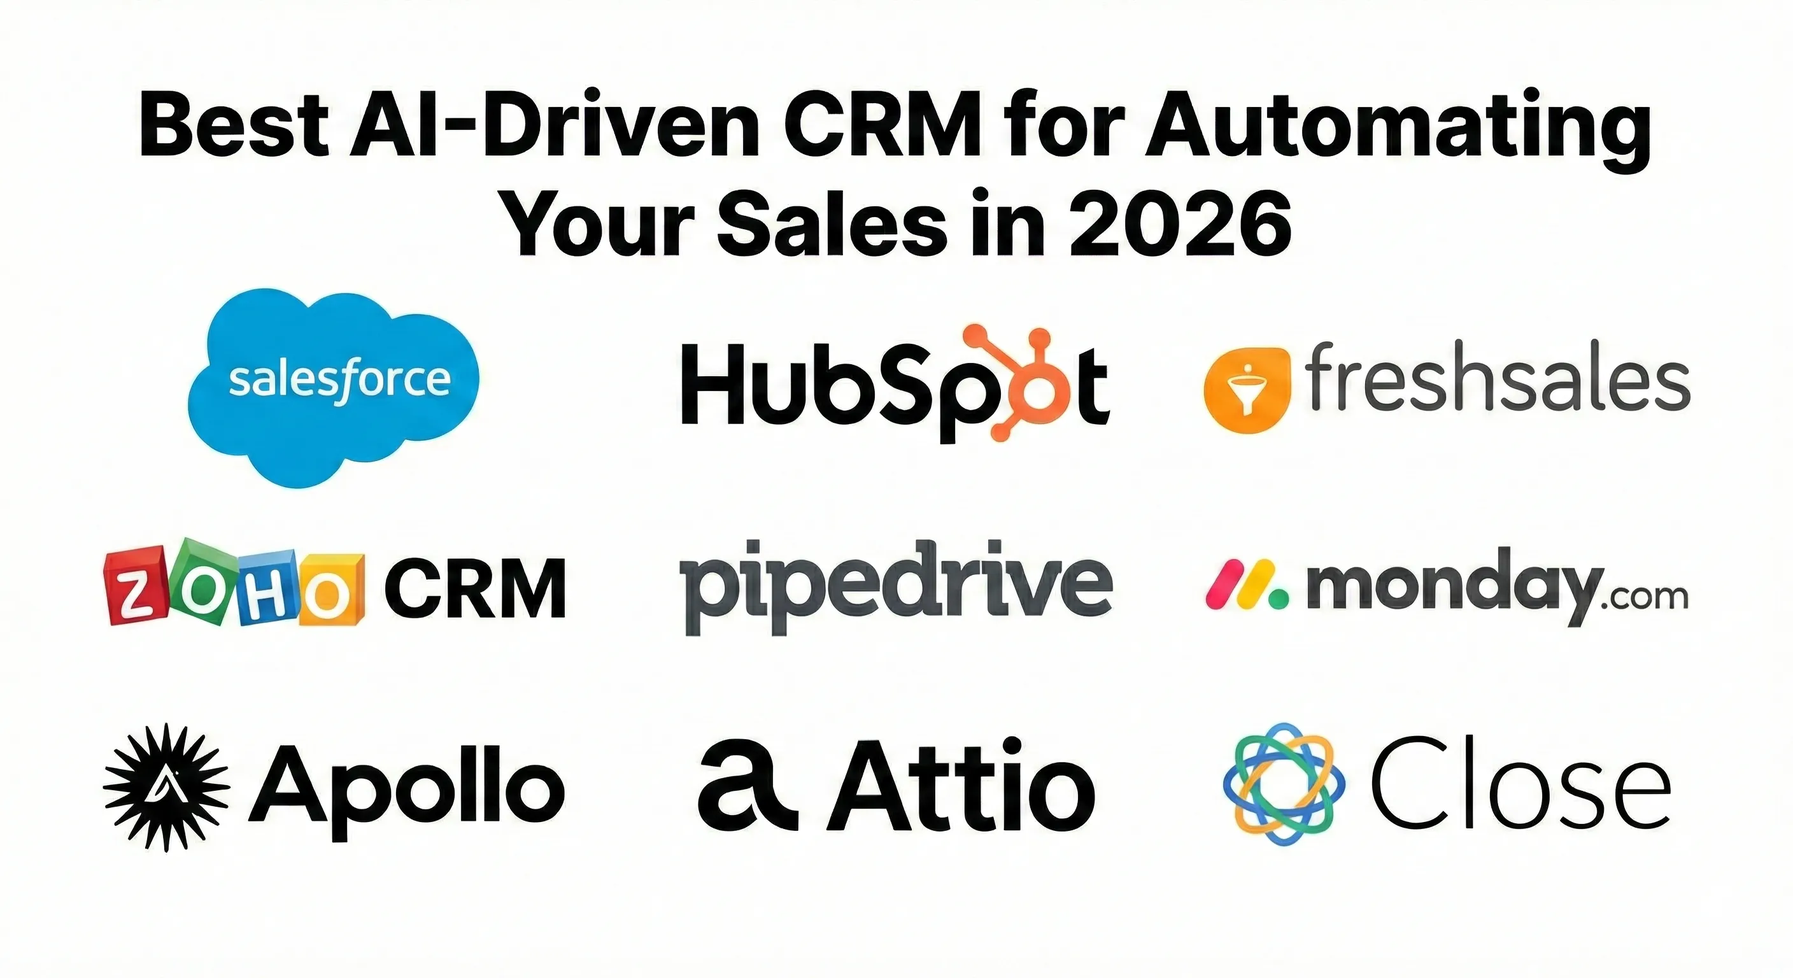
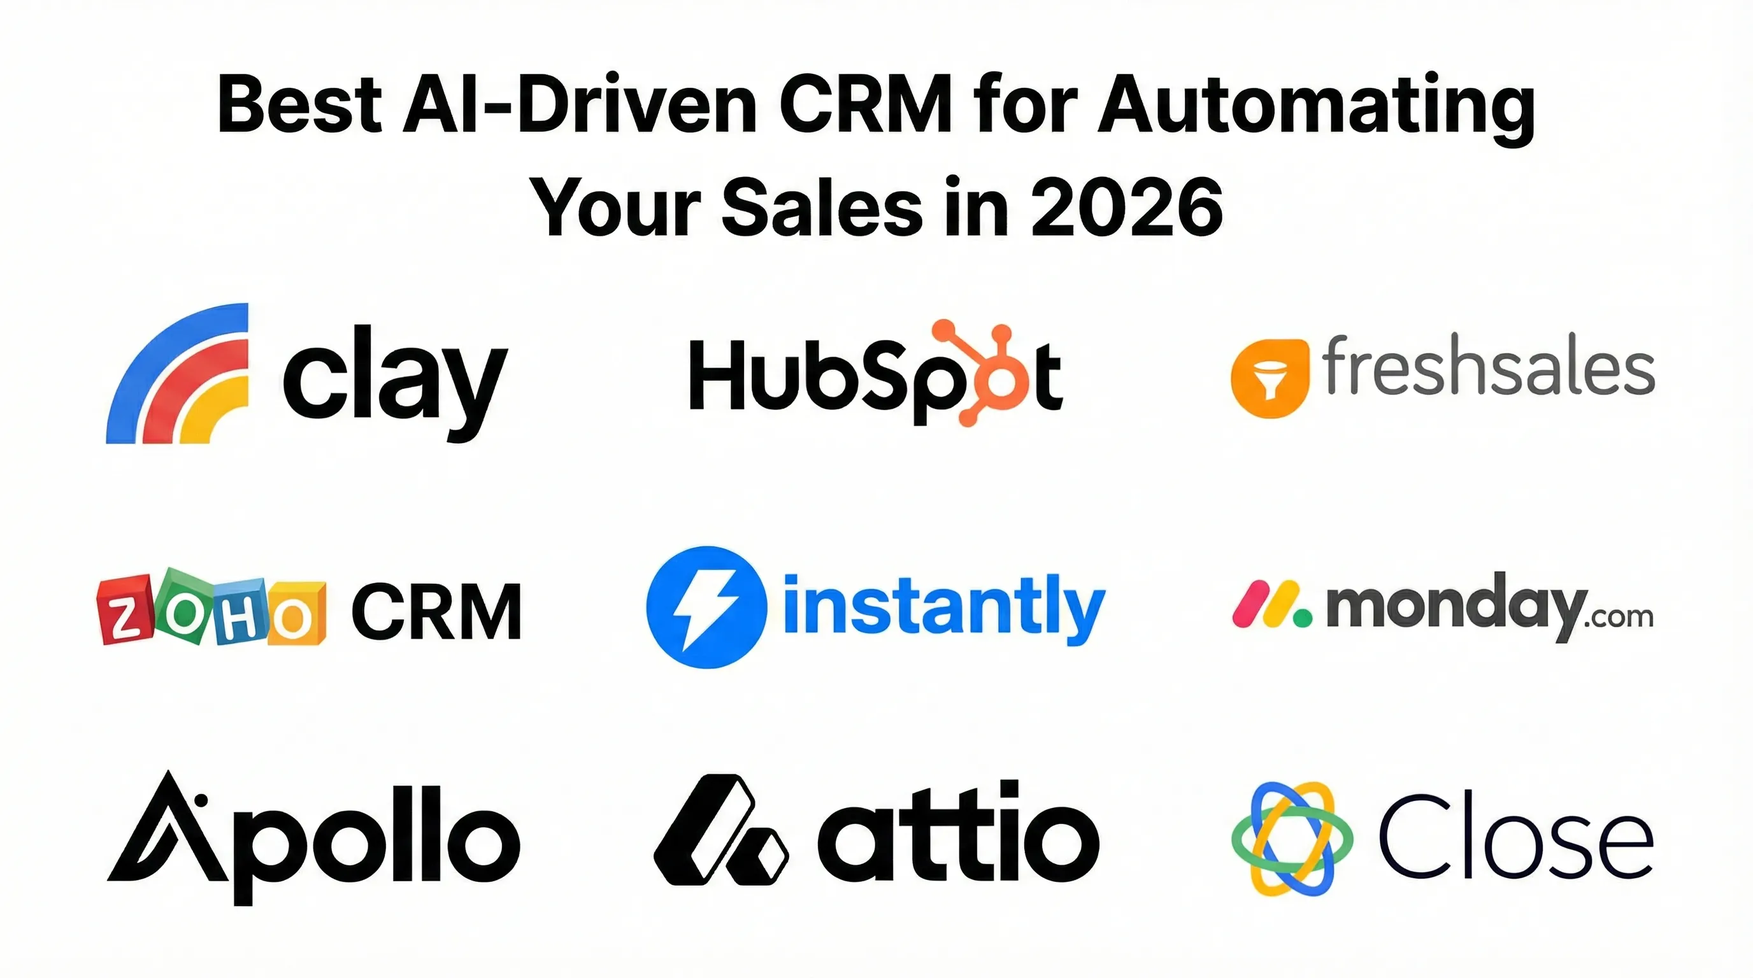
feat: add new images and update blog content for AI-driven CRM sales automation

diff --git a/content/blog/best_ai_driven_crm_for_automating_your_sales.md b/content/blog/best_ai_driven_crm_for_automating_your_sales.md
@@ -31,6 +31,42 @@ In this guide, we'll compare the best AI-driven CRM platforms for automating you
 </tr>
 </thead>
 <tbody>
+<tr style="background:#e8f5e9;">
+  <td style="border:1px solid #ddd;padding:0.4em 0.4em;text-align:center;" colspan="4"><strong>AI-First CRMs (AI is the core product)</strong></td>
+</tr>
+<tr style="background:#f9fbfd;">
+  <td style="border:1px solid #ddd;padding:0.4em 0.4em;text-align:left;"><strong>Clay</strong></td>
+  <td style="border:1px solid #ddd;padding:0.4em 0.4em;text-align:left;">Data enrichment & GTM</td>
+  <td style="border:1px solid #ddd;padding:0.4em 0.4em;text-align:left;">Free / $149/mo</td>
+  <td style="border:1px solid #ddd;padding:0.4em 0.4em;text-align:left;">150+ data providers, AI waterfall enrichment</td>
+</tr>
+<tr>
+  <td style="border:1px solid #ddd;padding:0.4em 0.4em;text-align:left;"><strong>Instantly</strong></td>
+  <td style="border:1px solid #ddd;padding:0.4em 0.4em;text-align:left;">AI cold email at scale</td>
+  <td style="border:1px solid #ddd;padding:0.4em 0.4em;text-align:left;">$47/mo</td>
+  <td style="border:1px solid #ddd;padding:0.4em 0.4em;text-align:left;">160M+ leads, largest warmup pool</td>
+</tr>
+<tr style="background:#f9fbfd;">
+  <td style="border:1px solid #ddd;padding:0.4em 0.4em;text-align:left;"><strong>Clarify</strong></td>
+  <td style="border:1px solid #ddd;padding:0.4em 0.4em;text-align:left;">Founder-led startups</td>
+  <td style="border:1px solid #ddd;padding:0.4em 0.4em;text-align:left;">Free / $20/mo</td>
+  <td style="border:1px solid #ddd;padding:0.4em 0.4em;text-align:left;">Zero-touch pipeline, ambient intelligence</td>
+</tr>
+<tr>
+  <td style="border:1px solid #ddd;padding:0.4em 0.4em;text-align:left;"><strong>Regie.ai</strong></td>
+  <td style="border:1px solid #ddd;padding:0.4em 0.4em;text-align:left;">AI sales engagement</td>
+  <td style="border:1px solid #ddd;padding:0.4em 0.4em;text-align:left;">Starting at $35K/yr</td>
+  <td style="border:1px solid #ddd;padding:0.4em 0.4em;text-align:left;">Autonomous SDR agents, 220M+ contacts</td>
+</tr>
+<tr>
+  <td style="border:1px solid #ddd;padding:0.4em 0.4em;text-align:left;"><strong>Salesflare</strong></td>
+  <td style="border:1px solid #ddd;padding:0.4em 0.4em;text-align:left;">Small B2B teams</td>
+  <td style="border:1px solid #ddd;padding:0.4em 0.4em;text-align:left;">$39/user/mo</td>
+  <td style="border:1px solid #ddd;padding:0.4em 0.4em;text-align:left;">Self-filling CRM, zero manual data entry</td>
+</tr>
+<tr style="background:#e8f5e9;">
+  <td style="border:1px solid #ddd;padding:0.4em 0.4em;text-align:center;" colspan="4"><strong>Traditional CRMs with AI Features</strong></td>
+</tr>
 <tr style="background:#f9fbfd;">
   <td style="border:1px solid #ddd;padding:0.4em 0.4em;text-align:left;"><strong>Salesforce (Agentforce)</strong></td>
   <td style="border:1px solid #ddd;padding:0.4em 0.4em;text-align:left;">Large enterprises</td>
@@ -102,7 +138,14 @@ In this guide, we'll compare the best AI-driven CRM platforms for automating you
    - Companies using AI-enabled sales platforms report 30% higher win rates and 25% faster deal cycles
    - Conversation intelligence and predictive forecasting are now standard features across most platforms
 
-2. **Top AI-Driven CRMs for Sales Automation**:
+2. **AI-First CRMs** (built from scratch with AI as the core product):
+   - <a href="https://www.clay.com" target="_blank">Clay</a>: 150+ data providers with AI waterfall enrichment and GTM automation
+   - <a href="https://instantly.ai" target="_blank">Instantly</a>: AI cold email at scale with 160M+ leads and automated deliverability
+   - <a href="https://www.clarify.ai" target="_blank">Clarify</a>: Autonomous CRM with zero-touch pipeline updates, free tier plus Starter at $20/mo
+   - <a href="https://www.regie.ai" target="_blank">Regie.ai</a>: AI-native sales engagement with autonomous SDR agents and 220M+ contacts
+   - <a href="https://salesflare.com" target="_blank">Salesflare</a>: Self-filling CRM that eliminates manual data entry entirely
+
+3. **Traditional CRMs with AI Features**:
    - <a href="https://www.salesforce.com" target="_blank">Salesforce (Agentforce)</a>: Most mature AI ecosystem with autonomous agents for enterprise sales
    - <a href="https://www.hubspot.com" target="_blank">HubSpot (Breeze AI)</a>: Unified marketing + sales AI with the strongest free tier
    - <a href="https://www.freshworks.com/crm/sales/" target="_blank">Freshsales (Freddy AI)</a>: Enterprise-grade AI at SMB-friendly pricing starting at $47/user/mo
@@ -114,7 +157,7 @@ In this guide, we'll compare the best AI-driven CRM platforms for automating you
    - <a href="https://attio.com" target="_blank">Attio</a>: AI-native CRM built from the ground up for startups and modern teams
    - <a href="https://www.close.com" target="_blank">Close CRM</a>: Built-in power dialer and AI call assistant for high-velocity outbound sales
 
-3. **Key Features to Look For**: Predictive lead scoring, autonomous AI agents, generative email drafting, conversation intelligence, data enrichment, and pipeline forecasting
+4. **Key Features to Look For**: Predictive lead scoring, autonomous AI agents, generative email drafting, conversation intelligence, data enrichment, and pipeline forecasting
 
 {{% /tldr %}}
 
@@ -126,9 +169,128 @@ The current generation of AI CRMs offers several capabilities that fundamentally
 
 When choosing an AI-driven CRM, consider three factors: your team size and budget, the depth of AI features you actually need, and how well the platform integrates with your existing tools. A startup with five salespeople has very different needs from an enterprise with hundreds of reps  and the pricing reflects that divide. Most platforms offer free tiers or trials, so testing with your actual sales data before committing is always the right approach.
 
-### Best AI-Driven CRMs for Automating Your Sales
+### AI-First CRMs: Built From the Ground Up for Automation
 
-Let's explore the top AI-driven CRM platforms available in 2026, examining their AI capabilities, pricing, and ideal use cases.
+The platforms in this section took a fundamentally different approach to CRM — they were built from scratch with AI as the core product. In these platforms, the AI doesn't assist your workflow; it *is* the workflow.
+
+#### Clay AI-Powered Data Enrichment and GTM Automation
+
+{{< image "best_ai_driven_crm_for_automating_your_sales/clay.webp" "Clay AI Data Enrichment and GTM Automation" >}}
+
+{{< link href="https://www.clay.com" >}}Clay{{< /link >}} is a data enrichment and workflow automation engine that aggregates over 150 data providers into a single marketplace, enabling GTM teams to automate prospecting, enrichment, and outbound personalization without juggling dozens of vendor contracts. With a $3.1 billion valuation after a $100 million Series C in 2025, over 300,000 teams use Clay — including OpenAI, Anthropic, Canva, HubSpot, and Notion.
+
+At the core is **waterfall enrichment**, a sequential querying system that checks multiple providers in priority order for each data point. If the first provider returns a match, it stops; if not, it cascades to the next until a verified result is found. This delivers significantly higher match rates than any single provider. **Claygent**, Clay's AI research agent, goes further — using natural language prompts to scrape the web for qualitative data like founder backgrounds, company initiatives, and hiring signals. **Sculptor**, launched in 2025, lets you build entire workflows in natural language and get enrichment recommendations tailored to your ICP.
+
+Clay also powers AI-driven outreach personalization, intent signal detection, and multi-agent workflows. The AI Formula Generator creates formulas from plain English, and built-in ChatGPT handles email copy and data categorization. It integrates with HubSpot, Salesforce, Pipedrive, Apollo, and Salesloft, though CRM sync requires the Pro plan. One consideration: the credit system can lead to costs running 30-50% higher than initial estimates.
+
+**Key Features of Clay**:
+
+- **Waterfall Enrichment** - Sequential multi-provider data lookups that cascade through your configured stack until a verified result is found, achieving higher match rates than any single provider
+- **Claygent AI Research Agent** - Natural language web scraping that finds qualitative prospect data (founder backgrounds, company initiatives, hiring signals) no structured database can deliver
+- **Sculptor AI Co-Pilot** - Build entire GTM workflows in natural language, get enrichment recommendations tailored to your ICP, and analyze datasets with conversational AI
+- **AI Formula Generator & Personalization** - Describe outcomes in plain English to create formulas, generate personalized email copy, and categorize data at scale using built-in ChatGPT
+- **Intent Signal Detection** - Automated monitoring of job changes, website visits, company mentions, funding rounds, and other buying signals across your prospect universe
+- **150+ Data Provider Marketplace** - Access to the largest aggregated data ecosystem without separate contracts, with the ability to use your own API keys for maximum flexibility
+
+**Clay Pricing**:
+
+All plans use a shared credit pool (no per-seat charges). Free tier at $0/month with 100 credits. Starter at $149/month ($134/month billed annually) with 2,000 credits/month and up to 5,000 people/company searches. Explorer at $349/month ($314/month annually) with 10,000 credits/month, webhooks, and email sequencing integrations. Pro at $800/month ($720/month annually) with 50,000 credits/month and CRM integrations. Enterprise is custom pricing exceeding $30,000/year depending on usage.
+
+#### Instantly AI Cold Email at Scale
+
+{{< image "best_ai_driven_crm_for_automating_your_sales/instantly.webp" "Instantly AI Cold Email Platform" >}}
+
+{{< link href="https://instantly.ai" >}}Instantly{{< /link >}} was built for AI-driven cold email automation at massive scale, with its entire architecture designed around solving deliverability. The **AI warmup system** simulates real email interactions within a network of over 4.2 million accounts, gradually building sender reputation over a 30-day warmup period with continuous blacklist monitoring. For high-volume senders, the **SISR (Server & IP Sharding and Rotation)** system assigns dedicated IP blocks and automatically swaps flagged IPs to prevent reputation cascading.
+
+**Inbox rotation** lets you connect unlimited email accounts with automatic sending distribution across all of them, so no single account triggers spam filters. **A/Z testing** extends traditional A/B testing by running dozens of email variants simultaneously — subject lines, body copy, CTAs, and full sequences — with AI identifying the highest-performing combinations. **AI lead scoring** ranks prospects by predicted reply likelihood, and an **AI Reply Agent** auto-handles incoming responses in under 5 minutes.
+
+Instantly's **built-in CRM** is a separate product providing pipeline visualization, deal tracking, and follow-up reminders. The Hyper CRM tier adds calling, SMS, and website visitor tracking. Most power users pair Instantly's outreach engine with an external CRM via native integrations (HubSpot, Salesforce, Pipedrive). Best suited for small businesses automating outreach and agencies running high-volume multi-brand campaigns.
+
+**Key Features of Instantly**:
+
+- **AI Warmup Network** - Automated sender reputation building through a 4.2M+ account deliverability network with continuous warmup, blacklist monitoring, and inbox placement testing
+- **SISR Deliverability System** - Server and IP sharding and rotation that assigns dedicated IP blocks, automatically swaps flagged IPs, and protects sender reputation at high scale
+- **Unlimited Inbox Rotation** - Connect unlimited email accounts with automatic sending distribution to maximize volume while staying under ESP spam thresholds
+- **A/Z Multi-Variant Testing** - Test dozens of email variants simultaneously (subject lines, body copy, CTAs, sequences) with AI-powered optimization for highest reply rates
+- **AI Reply Agent & Lead Scoring** - Auto-respond to incoming replies in under 5 minutes and prioritize outreach based on AI-predicted reply likelihood
+- **160M+ Lead Database** - Built-in B2B contact database with SuperSearch filters for prospecting, plus AI-powered personalization for each prospect
+
+**Instantly Pricing**:
+
+Pricing is modular across three separate products, all at $47/month on monthly billing. **Outreach**: Growth at $47/month (1,000 contacts, 5,000 emails/month, unlimited accounts with warmup), Hypergrowth at $97/month (25,000 contacts, 125,000 emails/month), Light Speed at $358/month (includes SISR). **Lead Generation (SuperSearch)**: Growth at $47/month, Supersonic at $97/month, Hyper Credits at $197/month. **CRM**: Growth CRM at $47/month, Hyper CRM at $97/month (adds calling, SMS, team reporting). Combining all three costs roughly $141+/month minimum. AI features, email verification, and lead enrichment consume Nano Credits starting at $9/month for 150 credits.
+
+#### Clarify The Autonomous CRM for Founder-Led Sales
+
+{{< image "best_ai_driven_crm_for_automating_your_sales/clarify.webp" "Clarify Autonomous AI CRM" >}}
+
+{{< link href="https://www.clarify.ai" >}}Clarify{{< /link >}} takes the opposite approach to most CRM vendors. Instead of bolting AI agents onto an existing system, Clarify built **Ambient Intelligence** into its core — a design philosophy where the CRM itself is the agent, always working in the background without prompting. Founded in 2024 in Seattle, Clarify has raised $22.5 million including a $15 million Series A led by USVP and Gradient Ventures. Companies like Paramark, Sift, and Volca report an 80% reduction in administrative work.
+
+In practice, salespeople get active leads, action items, pre-call briefings, and after-meeting follow-ups delivered to their inbox automatically — without ever asking. The platform records meetings via Zoom, Meet, or Teams, generates transcripts, extracts key information (goals, pain points, stakeholders, objections), and updates the pipeline in the background. **Waterfall enrichment** cycles through multiple data sources when a new contact appears, filling in job titles, company data, and LinkedIn URLs automatically. The platform also generates **voice-matched AI follow-ups** that sound like the specific salesperson.
+
+Clarify's **credit-based pricing** charges per AI action rather than per seat, meaning everyone on your team can access the full CRM without inflating costs. The sweet spot is founder-led teams and call-heavy B2B motions (SaaS, agencies, services) that need clean notes and pipeline hygiene without adding headcount. The main limitation: Clarify is still early-stage for teams needing multi-channel sequences or advanced dashboards comparable to Salesforce.
+
+**Key Features of Clarify**:
+
+- **Ambient Intelligence Architecture** - The CRM autonomously captures, enriches, and acts on data in the background without prompting, delivering leads, action items, pre-call briefings, and follow-ups to your inbox automatically
+- **Automated Meeting Intelligence** - Records calls via Zoom/Meet/Teams, transcribes conversations, extracts goals/pain points/stakeholders/objections, and updates pipeline stages without human intervention
+- **Waterfall Contact Enrichment** - Continuously cycles through multiple data sources in priority order until complete profiles exist, filling job titles, company data, LinkedIn URLs, and funding history automatically
+- **Voice-Matched AI Outreach** - Generates follow-up messages that match each salesperson's communication patterns and authentic tone
+- **Credit-Based Unlimited Seats** - No per-seat charges; everyone on the team accesses the full CRM while you only pay for AI actions performed
+- **Pipeline Automation** - Moves deals through stages automatically based on detected buying signals extracted from emails, meetings, and engagement patterns
+
+**Clarify Pricing**:
+
+Free plan at $0/month with unlimited seats and core CRM features. Starter at $20/month with additional AI capabilities and credits. Enterprise plan with custom pricing available. All AI actions (recording, transcription, enrichment, email generation) consume credits at variable rates, and there are no per-seat charges on any plan.
+
+#### Regie.ai AI Sales Engagement with Autonomous SDR Agents
+
+{{< image "best_ai_driven_crm_for_automating_your_sales/regie.webp" "Regie.ai AI Sales Engagement" >}}
+
+{{< link href="https://www.regie.ai" >}}Regie.ai{{< /link >}} positions itself as the world's first AI-native sales engagement platform, fundamentally different from traditional SEPs like Outreach or Salesloft. Its **Auto-Pilot Agents** are autonomous AI SDRs that handle the entire top-of-funnel workflow: identifying and enriching ICP contacts from a **built-in database of over 220 million contacts** (including mobile numbers), monitoring 100+ buying signals from Google, LinkedIn, G2, Crunchbase, and CRM records, and adjusting messaging and timing in real time based on engagement.
+
+What sets RegieOne apart is **tool consolidation**. The platform replaces your dialer, data enrichment, intent signals, email/social creation, and traditional SEP in one workflow. Its **AI-native parallel dialer** is built directly into the platform, and **Custom Generative AI** lets you build a language model with your brand voice for personalized outreach across email, LinkedIn, and phone. Automated CRM logging syncs every touch back to Salesforce without reps breaking focus.
+
+The platform integrates with Salesforce and Outreach.io. Users praise Auto-Pilot as "a game changer" for personalized sends at scale, though some report occasional wrong targeting and AI content that needs manual editing. The enterprise pricing (starting at $35K/year) may be a barrier for smaller teams.
+
+**Key Features of Regie.ai**:
+
+- **Auto-Pilot AI Agents** - Autonomous SDRs that source contacts, enrich profiles, write personalized outreach, and engage prospects across email, phone, and LinkedIn 24/7 without human intervention
+- **220M+ Built-In Contact Database** - Instant access to verified contacts with mobile numbers, enriched via waterfall matching across multiple data providers, included at no extra cost
+- **100+ Intent Signal Monitoring** - Tracks buying signals from Google, LinkedIn, 10-K filings, G2, Crunchbase, BuiltWith, company news, and CRM records, plus unlimited custom signals for intelligent prioritization
+- **AI-Native Parallel Dialer** - The only parallel dialer built directly within a sales engagement platform, with AI call coaching and scripts integrated into the workflow
+- **Custom Generative AI Copywriting** - Build a custom language model with your brand voice, manage unlimited prompts across channels, and control which data sources inform personalization
+- **Unified SEP Consolidation** - Replaces separate tools for dialing, data enrichment, intent signals, email/social creation, and sequencing in one platform with automated CRM logging
+
+**Regie.ai Pricing**:
+
+Regie.ai uses outcomes-based enterprise pricing. AI Agents starts at $35K/year and includes contact acquisition, signal-based prioritization, multi-channel outreach, adaptive engagement, and integration with Outreach or SalesLoft. AI Agents + AI Dialer also starts at $35K/year and adds parallel dialing (up to 9 lines), AI phone scripts, call scoring, voicemail drops, and live transcription. RegieOne, the all-in-one AI-native prospecting platform, is available as a complete sales engagement replacement with migration services included on annual contracts. All pricing requires a sales conversation.
+
+#### Salesflare The Self-Filling CRM
+
+{{< image "best_ai_driven_crm_for_automating_your_sales/salesflarewebp.webp" "Salesflare Self-Filling AI CRM" >}}
+
+{{< link href="https://salesflare.com" >}}Salesflare{{< /link >}} was built to eliminate manual CRM data entry entirely. The **auto-fill system** connects to your email (Gmail or Outlook), calendar, phone, and social accounts, then continuously scans these sources to extract contact and company information. It aggregates data from email signatures, social profiles (LinkedIn, Twitter), and public company databases to automatically populate CRM records. Every email is logged automatically, with open and click tracking that intelligently filters out your own team's activity across all devices.
+
+**Relationship intelligence** maps connections between team members and prospects, helping managers assign leads to reps with existing relationships. **Timeline analysis** surfaces important developments before calls, with AI-powered summaries that recap a client's entire history and suggest next steps. **Integrated website tracking** shows which pages prospects visit on your site, and the **LinkedIn sidebar** Chrome extension lets you add contacts, enrich records, and find emails directly from LinkedIn.
+
+What makes Salesflare different from Pipedrive or folk is its radical commitment to zero manual data entry as a design principle. If the CRM cannot fill a field automatically, the field probably should not exist. AI Assist drafts follow-up emails, auto-scores deals, and enriches profiles. Best suited for small B2B teams (SaaS, consulting, agencies) that live in Gmail/Outlook and LinkedIn and want a CRM that stays current without anyone logging a single interaction manually.
+
+**Key Features of Salesflare**:
+
+- **Auto-Fill Data Capture** - Automatically extracts contact and company information from emails, email signatures, social profiles, company databases, phone, and calendar into unified CRM records without manual entry
+- **Relationship Intelligence Mapping** - Maps connections between team members and prospects, traces relationship links between contacts/accounts/opportunities via custom fields, and assigns leads based on existing relationships
+- **Advanced Email & Website Tracking** - Logs every email with open and click tracking, filters out your own team's activity across all devices, and includes integrated website visitor tracking with real-time notifications
+- **LinkedIn Sidebar & Lead Finder** - Chrome extension that brings CRM directly into LinkedIn for adding contacts, enriching records, finding emails, and following up on leads without context switching
+- **AI Timeline Summaries & Assist** - AI recaps client history, suggests next steps, answers questions about contacts and deals, drafts follow-up emails, and auto-scores deal likelihood
+- **Visual Pipeline with Follow-Up Reminders** - Drag-and-drop deal management with automated customer timelines and proactive alerts when you are forgetting to follow up with prospects
+
+**Salesflare Pricing**:
+
+Growth at $39/user/month. Pro at $64/user/month -- the recommended sweet spot enabling serious automation. Enterprise at $124/user/month with a five-user minimum. All plans include a 30-day free trial with no setup fees. Optional add-on lead credits available for the built-in email finder. All prices are billed monthly.
+
+### Traditional CRMs with Powerful AI Features
+
+The following platforms started as traditional CRMs and have since integrated powerful AI capabilities into their existing foundations. While not AI-first by design, these are mature, battle-tested platforms with deep feature sets and large ecosystems.
 
 #### 1. Salesforce (Agentforce / Einstein AI)
 
